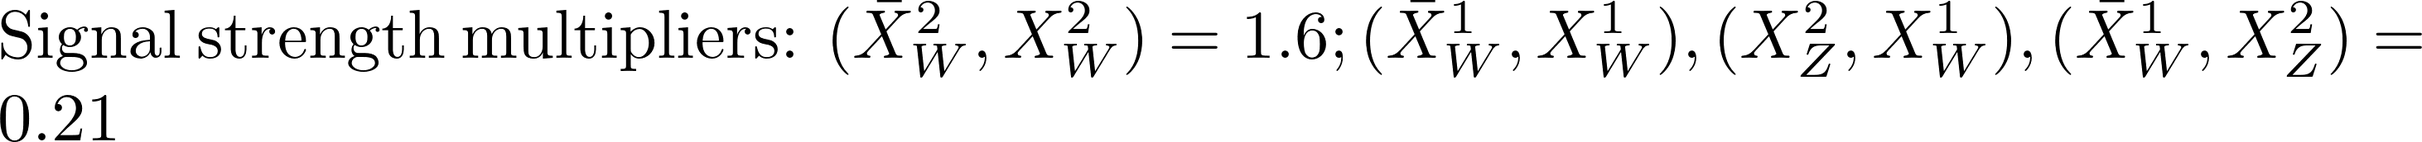
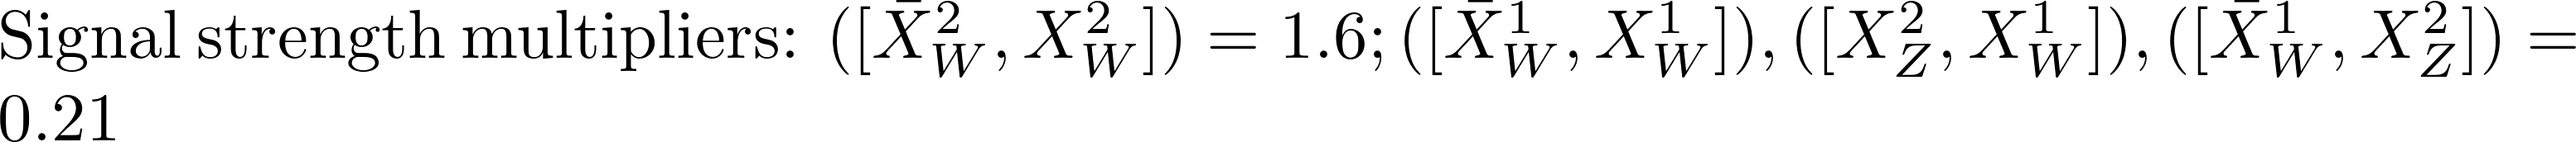
automated update by plotHiscore.py to ewkinos_230:     K=8.615 Z=3.70 walkerid=126

diff --git a/protomodels/ewkinos_230/rawnumbers.html b/protomodels/ewkinos_230/rawnumbers.html
@@ -1,8 +1,8 @@
 <table>
 <tr><th>Analysis Name</th><th>Type</th><th>Dataset</th><th>Topos</th><th>Observed</th><th>Expected</th><th>Approx &sigma;</th><th>Particles</th>
 </tr>
-<tr><td><a href=https://atlas.web.cern.ch/Atlas/GROUPS/PHYSICS/PAPERS/SUSY-2013-11/>ATLAS-SUSY-2013-11</a></td><td>em</td> <td>WWa-DF</td><td>TChiWWoff</td><td>70</td><td>73.6 +/- 7.9</td><td style="text-align:right">-0.3 &sigma;</td><td style="text-align:right">X<sup>1</sup><sub>W</sub></td></tr>
-<tr><td><a href=http://cms-results.web.cern.ch/cms-results/public-results/publications/SUS-16-039/index.html>CMS-SUS-16-039-agg</a></td><td>comb</td> <td>-</td><td>TChiWZoff</td><td> 1.0 fb </td><td> 0.5 fb</td><td style="text-align:right">2.2 &sigma;</td><td style="text-align:right">X<sup>1</sup><sub>W</sub>, X<sup>2</sup><sub>Z</sub></td></tr>
-<tr><td><a href=http://cms-results.web.cern.ch/cms-results/public-results/publications/SUS-16-048/index.html>CMS-SUS-16-048</a></td><td>comb</td> <td>-</td><td>TChiWZoff</td><td> 2.0 fb </td><td> 0.9 fb</td><td style="text-align:right">2.4 &sigma;</td><td style="text-align:right">X<sup>1</sup><sub>W</sub>, X<sup>2</sup><sub>Z</sub></td></tr>
-<tr><td><a href=http://cms-results.web.cern.ch/cms-results/public-results/publications/SUS-21-002/>CMS-SUS-21-002</a></td><td>comb</td> <td>-</td><td>TChiWW</td><td> 0.1 fb </td><td> 0.1 fb</td><td style="text-align:right">1.7 &sigma;</td><td style="text-align:right">X<sup>2</sup><sub>W</sub></td></tr>
+<tr><td><a href=https://atlas.web.cern.ch/Atlas/GROUPS/PHYSICS/PAPERS/SUSY-2013-11/>ATLAS-SUSY-2013-11</a></td><td>em</td> <td>WWa-DF</td><td>TChiWWoff</td><td>70</td><td>73.6 +/- 7.9</td><td style="text-align:right">-0.3 &sigma;</td><td style="text-align:right">[X<sup>1</sup><sub>W</sub>]</td></tr>
+<tr><td><a href=http://cms-results.web.cern.ch/cms-results/public-results/publications/SUS-16-039/index.html>CMS-SUS-16-039-agg</a></td><td>comb</td> <td>-</td><td>TChiWZoff</td><td> 1.0 fb </td><td> 0.5 fb</td><td style="text-align:right">2.2 &sigma;</td><td style="text-align:right">[X<sup>1</sup><sub>W</sub>, X<sup>2</sup><sub>Z</sub>]</td></tr>
+<tr><td><a href=http://cms-results.web.cern.ch/cms-results/public-results/publications/SUS-16-048/index.html>CMS-SUS-16-048</a></td><td>comb</td> <td>-</td><td>TChiWZoff</td><td> 2.0 fb </td><td> 0.9 fb</td><td style="text-align:right">2.4 &sigma;</td><td style="text-align:right">[X<sup>1</sup><sub>W</sub>, X<sup>2</sup><sub>Z</sub>]</td></tr>
+<tr><td><a href=http://cms-results.web.cern.ch/cms-results/public-results/publications/SUS-21-002/>CMS-SUS-21-002</a></td><td>comb</td> <td>-</td><td>TChiWW</td><td> 0.1 fb </td><td> 0.1 fb</td><td style="text-align:right">1.7 &sigma;</td><td style="text-align:right">[X<sup>2</sup><sub>W</sub>]</td></tr>
 </table>

diff --git a/protomodels/ewkinos_230/index.html b/protomodels/ewkinos_230/index.html
@@ -12,11 +12,11 @@
 <li><a href=http://cms-results.web.cern.ch/cms-results/public-results/publications/SUS-21-002/>CMS-SUS-21-002</a>:comb:TChiWW r=0.38, r<sub>exp</sub>=0.70<br>
 <li><a href=https://atlas.web.cern.ch/Atlas/GROUPS/PHYSICS/PAPERS/SUSY-2013-11/>ATLAS-SUSY-2013-11</a>:em:TChiWWoff r=0.02, r<sub>exp</sub>=0.02<br>
 </ul>
-<td><img width=600px src=./texdoc.png?1708004466>
-<br><font size=-1>Last updated: Thu Feb 15 14:41:06 2024</font>
+<td><img width=600px src=./texdoc.png?1708007415>
+<br><font size=-1>Last updated: Thu Feb 15 15:30:15 2024</font>
 </table><table style="width:80%">
-<td width=45%><img height=580px src=./ruler.png?1708004466><td width=55%><img height=340px src=./decays.png?1708004466>
-<font size=-3><iframe type="text/html" height="270px" width="100%s" frameborder="0" src="./rawnumbers.html?1708004466"></iframe></font>
+<td width=45%><img height=580px src=./ruler.png?1708007415><td width=55%><img height=340px src=./decays.png?1708007415>
+<font size=-3><iframe type="text/html" height="270px" width="100%s" frameborder="0" src="./rawnumbers.html?1708007415"></iframe></font>
 </table>
 </body>
 </html>
